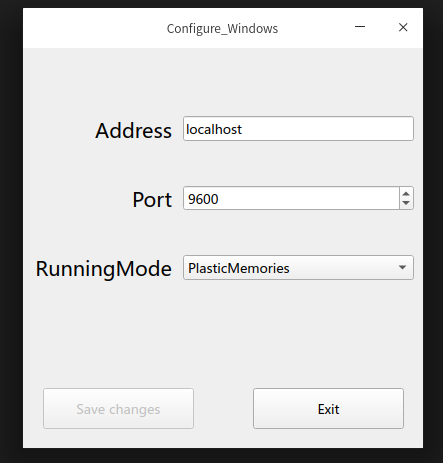
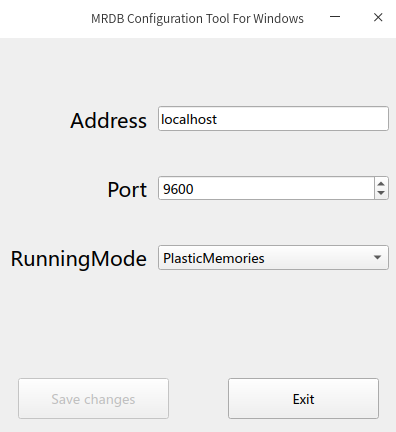
修改了窗体标题，增加了中文自述文件，完善了英文自述文件

Changed region(s): [[0.0, 0.0, 1.0, 1.0], [0.0909, 0.8727, 0.3636, 0.9329], [0.5758, 0.8727, 0.9091, 0.9329]]

diff --git a/Configure_Windows/Window/MainWindow.py b/Configure_Windows/Window/MainWindow.py
@@ -88,7 +88,7 @@ class Ui_MainWindow(object):
 
     def retranslateUi(self, MainWindow):
         _translate = QtCore.QCoreApplication.translate
-        MainWindow.setWindowTitle(_translate("MainWindow", "Configure_Windows"))
+        MainWindow.setWindowTitle(_translate("MainWindow", "MRDB Configuration Tool For  Windows"))
         self.PushButton_Save.setText(_translate("MainWindow", "Save changes"))
         self.PushButton_Exit.setText(_translate("MainWindow", "Exit"))
         self.Label_Address_Key.setText(_translate("MainWindow", "Address"))

diff --git a/README_zhCN.md b/README_zhCN.md
@@ -1,0 +1,22 @@
+# MRDBConfigure_Windows
+
+####  ~~小妹妹不要怕怕~~不用担心，默认情况下，配置工具将集成到相应版本的MRDB中，因此您无需克隆或下载此项目。
+
+---
+## 介绍
+Windows平台上MRDB的配置工具。
+
+该配置工具提供了一个GUI界面，供用户配置MRDB服务器。
+
+---
+## Screenshots
+![1][1]
+![2][2]
+![3][3]
+![4][4]
+
+---
+[1]:screenshots/1.png
+[2]:screenshots/2.png
+[3]:screenshots/3.png
+[4]:screenshots/4.png

diff --git a/README.md b/README.md
@@ -1,5 +1,8 @@
 # MRDBConfigure_Windows
 
+#### Don't worry, the configuration tool will be integrated into the corresponding version of MRDB by default, so you don't need to clone or download this project.
+
+---
 ## Introduceion
 Configuration tool for MRDB on Windows platform.
 
@@ -14,9 +17,6 @@ The configuration tool provides a GUI interface for users to configure MRDB serv
 
 ---
 [1]:screenshots/1.png
-
 [2]:screenshots/2.png
-
 [3]:screenshots/3.png
-
 [4]:screenshots/4.png
